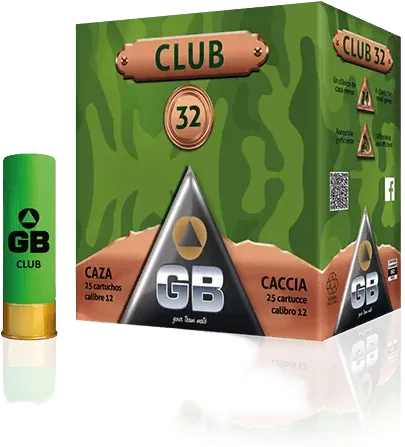
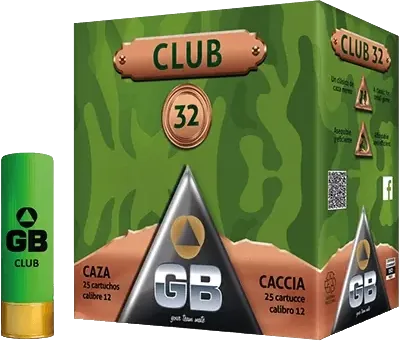
Las cajas se apoyan en la tabla y el cartel es de verdad
Tablero del 9-sep-2026: «la mesa que le colocaste me gustó mucho, el único
problema es la altura y posiciones de las cajas de munición que hacen que no se
vean realista pues flotan», y el letrero de precio real —
`Assets del Sitio/elementos/letrero mercado mexicano png.png` — recortado y
puesto en su sitio.

### Por qué flotaban (medido, no supuesto)

Las dos sospechas de siempre eran falsas: los PNG no traen aire (bbox del alfa =
0.00% por los cuatro lados en las 37 cajas, y con `object-position: bottom` el
sobrante de `contain` se va arriba), y `bottom: 18%` sí caía dentro de la tabla
—56.2px del suelo en un puesto de 312px, con la superficie entre 15 y 74.9px—.

Lo que flotaba era otra cosa:

1. `bottom` marca el canto del RECORTE, no la base de la caja. En las fotos PMC
   la caja se levanta sobre los cartuchos sueltos que tiene delante: su base está
   un 22% por encima del canto inferior del PNG, así que quedaba a 89px del
   suelo, 14px POR ENCIMA del borde trasero de la tabla, apoyada en el aire.
   A `bottom: 10%` cae a 64px, dentro de la madera.

2. La caja de GB traía el reflejo de estudio espejado: la caja acaba en el 74.5%
   del alto y el 25.5% restante era reflejo — 38px de aire muerto a tamaño de
   render. Un corte recto no valía porque la base es una línea quebrada
   (esquinas en y=379, 396 y 366), así que se limpió el ORIGEN con relleno por
   inundación desde el borde inferior sobre lo casi-blanco (el texto blanco de
[…]

diff --git a/estilo.css b/estilo.css
@@ -143,17 +143,21 @@
      como los típicos letreros mexicanos de los tianguis y mercados de
      frutería» (tablero del 8-sep-2026).
 
-     La mesa y el letrero son BOCETO: van dibujados en SVG dentro de
-     `--mesa-madera` y del degradado del palo mientras llegan las fotos. Los dos
-     están detrás de una sola variable a propósito — sustituirlos es cambiar esa
-     línea por un `url(imagenes/….webp)`, sin tocar ningún componente. */
+     La mesa sigue siendo BOCETO: va dibujada en SVG dentro de `--mesa-madera`
+     mientras llega la foto, detrás de una sola variable a propósito —
+     sustituirla es cambiar esa línea por un `url(imagenes/….webp)`, sin tocar
+     ningún componente. El LETRERO ya hizo ese viaje (9-sep-2026): era un
+     rectángulo de color y hoy es la foto real recortada con alfa. */
   --mesa-tabla:     #C09A72;   /* la tabla — tinta oscura encima daría 6.71:1 */
   --mesa-veta:      #A8875F;
   --mesa-junta:     #94714E;
   --mesa-canto:     #7E6042;   /* el canto que mira al comprador */
-  --letrero:        #F2CE1B;   /* el amarillo del cartel de tianguis */
-  --letrero-tinta:  #171B19;   /* 11.28:1 sobre el cartel */
-  --letrero-filo:   #C9A21A;
+  --letrero:        url(imagenes/letrero-mercado.webp);   /* el cartel de mercado, con alfa */
+  /* Medido a mano sobre la banda del rótulo del WebP (contraste.mjs solo audita
+     la PALETTE, no los tokens diegéticos): la cara del cartel es #D9DD00 y su
+     píxel más oscuro bajo el texto #D9DB00 → la tinta da 11.84:1 y 11.67:1.
+     Antes, sobre el amarillo dibujado #F2CE1B, daba 11.28:1. */
+  --letrero-tinta:  #171B19;
   --palo:           #B4906A;   /* la vara del cartel */
   --puesto-luz:     #FFE9A8;   /* la luz que se enciende detrás de la caja */
 
@@ -1457,19 +1461,24 @@
   z-index: 0;
 }
 
-/* El cartel. Texto de verdad, no rotulado dentro del SVG: el calibre sale del
-   dato y lo lee un lector de pantalla.
+/* El cartel. Texto de verdad, no dibujado dentro de la foto: el calibre sale
+   del dato y lo lee un lector de pantalla. La foto pone solo el cartón.
    El giro es estático —un cartel clavado a mano nunca queda a plomo— y alterna
-   de signo entre puestos pares e impares para que la fila no salga peinada. */
+   de signo entre puestos pares e impares para que la fila no salga peinada.
+   La sombra va en `drop-shadow` y no en `box-shadow`: el cartón está recortado
+   con alfa y tiene los cantos a mano, así que una sombra de caja dibujaría el
+   rectángulo que la foto justamente no es. */
 .amx-v2 .amx-puesto-letrero {
   position: absolute;
-  left: 15%; right: 15%; top: 4%;
+  left: 15%; right: 15%; top: 3%;
   z-index: 3;
-  padding: 13px 6px 14px;
-  background: var(--letrero);
-  border: 1px solid var(--letrero-filo);
-  border-radius: 1px;
-  box-shadow: 0 2px 5px rgba(23, 27, 25, .28);
+  /* Generoso y asimétrico por dos razones: el cartón de la foto es casi
+     cuadrado (900x747) y estirarlo a una cinta de 4:1 le borra los cantos
+     cortados a mano; y en la foto el canto de abajo cae más que el de arriba,
+     así que el rótulo necesita más aire por debajo para no montarse en él. */
+  padding: 22px 12px 28px;
+  background: var(--letrero) 50% 50% / 100% 100% no-repeat;
+  filter: drop-shadow(0 3px 4px rgba(23, 27, 25, .34));
   transform: rotate(-2.2deg);
 }
 .amx-v2 .amx-puesto:nth-child(even) .amx-puesto-letrero { transform: rotate(1.8deg); }
@@ -1482,7 +1491,7 @@
   letter-spacing: .01em;
   text-transform: uppercase;
   text-align: center;
-  color: var(--letrero-tinta);        /* 11.28:1 sobre el cartel */
+  color: var(--letrero-tinta);        /* 11.84:1 sobre la cara del cartel */
 }
 /* La vara. Sale del cartel y se pierde detrás de la caja — no llega a la tabla
    a propósito: el cartón la tapa, que es lo que pasa en un puesto de verdad. */
@@ -1501,7 +1510,7 @@
    foco de teclado, que si no el efecto solo existiría para el ratón. */
 .amx-v2 .amx-puesto-luz {
   position: absolute;
-  left: 50%; bottom: 18%;
+  left: 50%; bottom: 10%;             /* baja con la caja: es su luz de detrás */
   z-index: 1;
   width: 96%;
   aspect-ratio: 1 / 1;
@@ -1515,31 +1524,96 @@
 .amx-v2 .amx-puesto:hover .amx-puesto-luz,
 .amx-v2 .amx-puesto:focus-visible .amx-puesto-luz { opacity: .85; }
 
-/* La caja apoyada. `bottom` la mete 6 puntos dentro de la tabla: apoyada en la
-   superficie, no posada sobre el canto. La sombra de contacto es lo que la
-   asienta — sin ella la caja flota por muy bien recortada que esté. */
+/* La caja apoyada (revisado 9-sep-2026 — antes flotaba, y aquí está medido
+   por qué; los PNG no tenían la culpa: su recorte es ajustado, 0 % de aire).
+
+   1. `bottom` no marca la base de la CAJA sino el canto del recorte, y en las
+      fotos PMC la caja se levanta sobre los cartuchos sueltos que tiene
+      delante: su base cae un 22 % por encima de ese canto. Con `bottom: 18 %`
+      en un puesto de 312 px, esa base quedaba a 89 px del suelo — 14 px POR
+      ENCIMA del borde trasero de la tabla (74.9 px). Se apoyaba en el aire.
+      A 10 % la base cae a 64 px, dentro de los 60 px de superficie dibujada
+      (la tabla mide 24 % y su quinta parte de abajo es el canto, o sea que la
+      madera que se pisa va de 15 px a 74.9 px).
+   2. La sombra de contacto era un `<span>` elíptico fijo que además estaba
+      colocado 3 px POR ENCIMA del canto de la imagen, así que la tapaba la
+      propia caja. Ahora va en el `drop-shadow` de la foto: sigue la silueta,
+      que es lo único que sirve cuando la caja de GB ocupa el 45 % del ancho y
+      la PMC el 91 %, y se coloca sola con cualquier altura de caja. */
 .amx-v2 .amx-puesto-caja {
   position: absolute;
-  left: 6%; right: 6%; bottom: 18%;
+  left: 6%; right: 6%; bottom: 10%;
   z-index: 2;
   height: 48%;
   object-fit: contain;
-  object-position: bottom center;
-  filter: drop-shadow(0 2px 3px rgba(23, 27, 25, .30));
-}
-.amx-v2 .amx-puesto-sombra {
-  position: absolute;
-  left: 12%; right: 12%; bottom: 16%;
-  z-index: 1;
-  height: 6%;
-  border-radius: 50%;
-  background: radial-gradient(closest-side, rgba(23, 27, 25, .40) 0%, rgba(23, 27, 25, 0) 100%);
-  pointer-events: none;
+  object-position: bottom center;     /* nunca deja aire ABAJO: el sobrante de
+                                         `contain` se va siempre arriba */
+  filter: drop-shadow(0 3px 2px rgba(23, 27, 25, .46))
+          drop-shadow(0 9px 9px rgba(23, 27, 25, .26));
 }
 @media (max-width: 719px) {
   /* A media columna el cuadrado deja 179px de alto y no caben cartel, caja y
      tabla sin apretarse: en móvil el puesto crece a lo alto, no a lo ancho. */
   .amx-v2 .amx-puesto { aspect-ratio: 4 / 5; }
   .amx-v2 .amx-puesto-rotulo { font-size: 14px; }
-  .amx-v2 .amx-puesto-letrero { padding: 7px 4px 8px; }
+  /* Menos aire que en escritorio pero la misma proporción de cartón: con los
+     7/4/8 de cuando era un rectángulo de color, la foto salía una cinta. */
+  .amx-v2 .amx-puesto-letrero { left: 11%; right: 11%; padding: 14px 8px 18px; }
+}
+
+/* ══════════════════════════════════════════════════════════════════════════
+   PIE DE OFICIO — los enlaces del pie (window.PieDeSitio, en ui.jsx)
+
+   BLOQUE NUEVO AL FINAL, y no estilo inline, porque `:hover` y
+   `:focus-visible` no existen en un objeto `style={{}}`. Es lo único del pie
+   que no cabe inline; todo lo demás sigue allí.
+
+   EN REPOSO NO SE DISTINGUEN DEL TEXTO. Es lo que pidió Saulo el 9-sep-2026,
+   por escrito y viendo el pie renderizado: ni subrayado ni cursiva en ningún
+   enlace del pie —«nada en cursiva»—, mismo tipo y mismo estilo que el texto
+   que los rodea, y «lo único que los distingue es que se iluminan al hacer
+   hover». Hubo dos pasadas antes: una con subrayado y otra con cursiva en
+   FUENTES. Las dos se retiraron. NO las devuelvas sin pedírselo.
+
+   ⚠ LO QUE ESO CUESTA, para que conste: WCAG 1.4.1 pide que «esto es un
+   enlace» no dependa solo del color, y aquí en reposo no depende ni de eso.
+   Es una decisión tomada con el dato delante, no un descuido.
+
+   EL ROJO DEL HOVER es #CE1126, el rojo de la bandera de México, elegido por
+   Saulo porque los rojos de la paleta le resultaron «desabridos y sin
+   saturación». Es un valor literal a propósito: no es un token del sitio y no
+   se añade a `:root` sin que él lo decida.
+
+   ⚠ NO PASA EL UMBRAL DEL REPO. Medido con
+   `node .claude/skills/fidelidad-diseno/scripts/contraste.mjs '#CE1126' '#173A32'`:
+
+     reposo, crédito y aviso  --sobre-marca      #F3EFE4  10.83:1  AA
+     reposo, fuentes          --sobre-marca-dim  #B8C2BA   6.79:1  AA
+     HOVER y FOCO             rojo bandera       #CE1126   2.21:1  ✗ DÉBIL
+     anillo de foco           --sobre-marca      #F3EFE4  10.83:1  (1.4.11 pide 3)
+
+   DESIGN.md §7 pide >= 4.5:1 para todo texto que porte información. 2.21:1 no
+   llega, ni al 3:1 de un indicador. Queda puesto por instrucción expresa de
+   Saulo, informado del número. El texto NO se vuelve ilegible —solo se apaga
+   mientras el ratón está encima, y el estado de reposo sí cumple—, pero el
+   estado activo del enlace es el que se lee peor, que es al revés de lo
+   deseable. Alternativas que SÍ medirían, si alguna vez se reabre:
+   `--rojo-sobre-marca` #F29C8C (5.87:1, el token que el repo ya tiene para
+   rojo sobre la marca) o aclarar el bandera hasta ~#E8556B (4.5:1).
+   No las apliques por tu cuenta.
+
+   El anillo de foco lo pone `.amx-sobre-verde :focus-visible` (más arriba en
+   este archivo): el pie lleva esa clase, así que el foco SIEMPRE se ve en
+   crema a 10.83:1 y no depende de este rojo. Por eso quien navega con teclado
+   sabe dónde está aunque el color del texto no mida.
+   ══════════════════════════════════════════════════════════════════════════ */
+
+.amx-v2 .amx-pie-enlace {
+  color: inherit;
+  text-decoration: none;
+}
+.amx-v2 .amx-pie-enlace:hover,
+.amx-v2 .amx-pie-enlace:focus-visible {
+  color: #CE1126;          /* rojo de la bandera de México — 2.21:1, ver arriba */
+  text-decoration: none;   /* explícito: ni aquí vuelve el subrayado */
 }

diff --git a/screens-municiones.jsx b/screens-municiones.jsx
@@ -171,8 +171,18 @@ window.MunicionCard = MunicionCard;
 // ese calibre que tenga caja: en el mostrador el calibre se reconoce por
 // cualquiera de sus cajas. Sin ninguna cae al PNG del cartucho, que es lo que
 // había antes y sigue siendo correcto.
+//
+// Dos calibres llevan marca elegida a mano (Saulo, 9-sep-2026): las cuatro
+// cajas de la mesa tienen que MIRAR AL MISMO LADO —de frente y en diagonal
+// hacia la izquierda, como las PMC Bronze— y por orden de catálogo salían la
+// Trust azul de frente en 12 GA y la Fiocchi Dynamics tumbada en .308 Win.
+// El mapa es solo para el Home; la ficha de cada munición sigue con su caja.
+const CAJA_DEL_HOME = { '12 GA': 'GB', '.308 Win': 'PMC' };
+
 function munCajaDeCalibre(cal) {
-  const m = (window.MUNICIONES || []).find(x => x.calibre === cal && x.img);
+  const conCaja = (window.MUNICIONES || []).filter(x => x.calibre === cal && x.img);
+  const marca = CAJA_DEL_HOME[cal];
+  const m = (marca && conCaja.find(x => x.marca === marca)) || conCaja[0];
   return m
     ? { src: m.img, alt: `Caja de ${m.marca} ${cal}` }
     : { src: munCartucho(cal), alt: cal };
@@ -225,7 +235,6 @@ function HomeMunicionesSection({ onNav }) {
               </span>
               <span className="amx-puesto-palo" aria-hidden="true" />
               <span className="amx-puesto-luz" aria-hidden="true" />
-              <span className="amx-puesto-sombra" aria-hidden="true" />
               {/* alt vacío a propósito: el botón ya se anuncia con el calibre y
                   su cuenta, y repetir «Caja de PMC .380 ACP» detrás lo duplica. */}
               <img className="amx-puesto-caja" src={caja.src} alt="" loading="lazy" decoding="async" />

diff --git a/data-municiones.js b/data-municiones.js
@@ -85,7 +85,7 @@
     'eley__12ga': 'imagenes/municiones/eley__12ga.webp?v=20260908',
     'federal__556x45mm': 'imagenes/municiones/federal__556x45mm.webp?v=20260908',
     'fiocchi__308win': 'imagenes/municiones/fiocchi__308win.webp?v=20260908',
-    'gb__12ga': 'imagenes/municiones/gb__12ga.webp?v=20260908',
+    'gb__12ga': 'imagenes/municiones/gb__12ga.webp?v=20260909',
     'hornady__17hmr': 'imagenes/municiones/hornady__17hmr.webp?v=20260908',
     'hornady__22250rem': 'imagenes/municiones/hornady__22250rem.webp?v=20260908',
     'hornady__6mmrem': 'imagenes/municiones/hornady__6mmrem.webp?v=20260908',

diff --git a/index.html b/index.html
@@ -278,7 +278,7 @@
 <script src="data-traumaticas.js?v=20260827c"></script>
 <script src="data-precios.js?v=20260827c"></script>
 <script src="data-accesorios.js?v=20260908"></script>
-<script src="data-municiones.js?v=20260908"></script>
+<script src="data-municiones.js?v=20260909"></script>
 <script src="store.js?v=20260908"></script>
 <script>
 // Tweak defaults — the host rewrites this JSON in place when the user changes a tweak.
